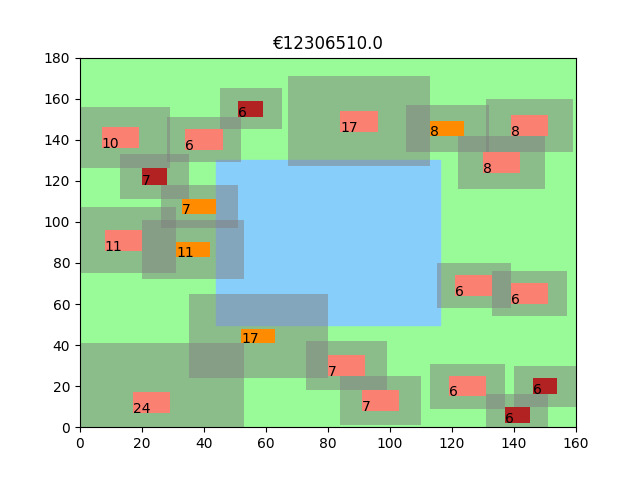
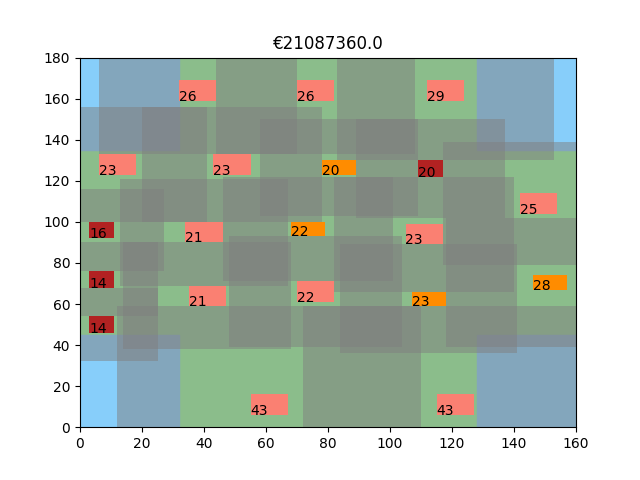
nieuwe algoritmes

diff --git a/code/algorithms/random_greedy.py b/code/algorithms/random_greedy.py
@@ -1,0 +1,101 @@
+from random import randrange
+from code.classes.Amstelhaege import Amstelhaege
+from copy import deepcopy
+
+def random_greedy(iterations, amstelhaege):
+    """
+    function that tries to place the house in random places and places it on the
+    best position for the specific house
+    """
+    highest_score = 0
+
+    for i in range(iterations):
+        # x = randrange(amstelhaege.length)
+        # y = randrange(amstelhaege.width)
+
+
+        random_placement(amstelhaege)
+
+        # checks if the move is valid
+        amstelhaege.place_house(x,y)
+        if amstelhaege.check_location(x, y, length, width, extra):
+            score = amstelhaege.calculate_worth()
+
+        # selects best place for the house
+        if score > highest_score:
+            highest_score = score
+            best_x = x
+            best_y = y
+    
+    # places house in best place
+    amstelhaege.place_house(best_x, best_y)
+    
+
+# def place_house_greedy(neighbourhood):
+#     """
+#     creates house and runs greedy on it
+#     """
+#     if name =! water:
+#         for house in neighbourhood.houses:
+#             neighbourhood.append(house)
+#             greedy_random(iterations, neighbourhood, house)
+
+
+
+def greedy():
+    """
+    check 40 possible places for each next house
+    """
+    highest_score = 0
+    #place water 
+
+
+   
+    # calculate number of houses for each house type
+    numb_eengezinswoning = amstelhaege.fraction_house_1 * total
+    numb_bungalow = amstelhaege.fraction_house_2 * total
+    numb_maison = amstelhaege.fraction_house_3 * total
+
+    # randomly places first house, which is maison
+    x = randrange(amstelhaege.length)
+    y = randrange(amstelhaege.width)
+    amstelhaege.place_house(3, x, y)
+
+    numb_maison = numb_maison + 1
+
+    # consider 20 different places for house, select best one
+    for number in range(house_number - 1):
+        house_id = number + 2
+
+        #check which house needs to be placed
+        if numb_maison > 0:
+            house_type = 3
+            numb_maison = numb_maison - 1
+        elif numb_bungalow > 0:
+            house_type = 2
+            numb_bungalow = numb_bungalow - 1
+        elif numb_eengezinswoning > 0:
+            house_type = 1
+            numb_eengezinswoning = numb_eengezinswoning - 1
+
+
+        tries = 0
+        while tries < 40:
+            placed = False
+
+            # generate coordinates
+            while placed == False:
+                x = randrange(amstelhaege.length)
+                y = randrange(amstelhaege.width)
+                
+                if amstelhaege.check_location(x, y, length, width, extra):
+                    placed = True
+                
+            # calculate the worth
+            score = amstelhaege.calculate_worth()
+            if score > highest_score:
+                highest_score = score
+                best_x = x
+                best_y = y
+            
+            tries += 1

diff --git a/code/algorithms/hillclimber2.py b/code/algorithms/hillclimber2.py
@@ -1,0 +1,56 @@
+import random
+from copy import deepcopy
+from code.classes.Amstelhaege import Amstelhaege
+
+def hillclimber2(amstelhaege):
+    """
+    This version of hillclimber starts with a random solution. Then each house 
+    is moved in a random direction (steps of 1m). If this move increases the area worth,
+    we keep moving the house in this direction, until the worth starts decreasing. 
+    """
+    directions = ["up", "down", "right", "left"]
+    for house in amstelheage.houses:
+        direction = random.choice(directions)
+        amstelheage.get_free_space()
+        worth = amstelhaege.calculate_worth()
+        new_worth = amstelheage.calculate_worth()
+        while new_worth >= worth:
+            previous_step_house = deepcopy(house)
+            previous_step_worth = new_worth
+            # previous_step_amstelhaege = deepcopy(amstelhaege)
+            new_coordinates = hillclimber2_move(house, direction)
+
+            house.x_left = new_coordinates[0]
+            house.x_right = new_coordinates[1]
+            house.y_bottom = new_coordinates[2]
+            house.y_top = new_coordinates[3]
+
+            amstelhaege.get_free_space()
+            new_worth = amstelheage.calculate_worth()
+    
+            # change the coordinates back, when the move decreases the worth
+            if new_worth < worth:
+                house.x_left = previous_step_house.x_left
+                house.x_right = previous_step_house.x_right
+                house.y_bottom = previous_step_house.y_bottom
+                house.y_top = previous_step_house.y_top
+                new_worth = previous_step_worth 
+                # amstelhaege = previouw.step_amstelhaege 
+    
+    return amstelhaege, new_worth
+
+
+def hillclimber2_move(house, direction):
+    # coordinates in new coordinates: [x_left, x_right, y_bottom, y_top]
+    if direction == "up":
+        new_coordinates = [house.x_left, house.x_right, house.y_bottom + 1, house.y_top + 1]
+    elif direction == "down":
+        new_coordinates = [house.x_left, house.x_right, house.y_bottom - 1, house.y_top - 1]
+    elif direction == "right":
+        new_coordinates = [house.x_left + 1, house.x_right + 1, house.y_bottom, house.y_top]
+    elif direction == "left": 
+        new_coordinates = [house.x_left - 1, house.x_right - 1, house.y_bottom, house.y_top]
+
+    return new_coordinates
+
+

diff --git a/code/algorithms/hillclimber1.py b/code/algorithms/hillclimber1.py
@@ -1,0 +1,64 @@
+from copy import deepcopy
+from random import randrange
+from code.algorithms.random_placement import random_placement, random_algorithm
+import time
+
+def hillclimber1(amstelhaege):
+    """
+    Executes the first version of the hillclimber algorithm.
+    First the houses are places randomly. Then a random house
+    is placed at a random location. If this random location 
+    increases the total price, it stays. If this random location
+    decreases the total price, we remove it.
+    
+    """
+
+    random_placement(amstelhaege)
+    amstelhaege.get_free_space()
+    amstelhaege.calculate_worth()
+
+    timeout = 100    
+    timeout_start = time.time()
+
+    # stop if the total price converges
+    while time.time() < timeout_start + timeout:
+        amstelhaege_copy = deepcopy(amstelhaege)
+        
+        # get a random house
+        house_index = randrange(amstelhaege_copy.total)
+        neighbourhood_index = amstelhaege.neighbourhood.index(amstelhaege.houses[house_index])
+        house = deepcopy(amstelhaege.houses[house_index])
+
+        # delete it from the copy
+        del amstelhaege_copy.houses[house_index]
+        del amstelhaege_copy.neighbourhood[neighbourhood_index]
+
+        # place the house at a random valid position
+        while True:
+
+            x = randrange(amstelhaege_copy.length)
+            y = randrange(amstelhaege_copy.width)
+
+            if amstelhaege_copy.check_location(x, y, house.length, house.width, house.free_area):
+                amstelhaege_copy.place_house(house.house_type, x, y)
+                break
+
+        amstelhaege_copy.get_free_space()
+        amstelhaege_copy.calculate_worth()
+
+        # if the new price is higher...
+        if amstelhaege_copy.price > amstelhaege.price:
+            
+            del amstelhaege.houses[house_index]
+            del amstelhaege.neighbourhood[neighbourhood_index]
+            amstelhaege.place_house(house.house_type, x, y)
+            amstelhaege.get_free_space()
+            amstelhaege.calculate_worth()
+            print(amstelhaege.price)
+
+    return amstelhaege, amstelhaege.price
+
+
+
+
+

diff --git a/code/classes/Amstelhaege.py b/code/classes/Amstelhaege.py
@@ -17,16 +17,17 @@ class Amstelhaege():
         self.price = None
 
 
-        # self.fraction_house_1 = 0.6
-        # self.fraction_house_2 = 0.25
-        # self.fraction_house_3 = 0.15
-        self.fraction_house_1 = 0.2
-        self.fraction_house_2 = 0.2
-        self.fraction_house_3 = 0.6
+        self.fraction_house_1 = 0.6
+        self.fraction_house_2 = 0.25
+        self.fraction_house_3 = 0.15
+        # self.fraction_house_1 = 0.2
+        # self.fraction_house_2 = 0.2
+        # self.fraction_house_3 = 0.6
         self.total = n_houses
 
         self.houses = []
-        self.waters = self.load_water(choice)
+        self.waters = []
+        self.load_water(choice)
         
 
     def load_water(self, choice):
@@ -51,9 +52,9 @@ class Amstelhaege():
 
                 # makes a Water object and appends it to the neighbourhood
                 water = Water('water', id, x_bottom_left, y_bottom_left, x_top_right, y_top_right, width, height)
+                self.waters.append(water)
                 self.neighbourhood.append(water)
 
-        return self.neighbourhood
 
 
     def place_house(self, house_type, x, y):
@@ -123,8 +124,8 @@ class Amstelhaege():
                 (y + width) > (house.y_bottom - extra)
                ):   
                return False
-
         return True
+
     
     def get_distance(self, house1, house2):
         """

diff --git a/main.py b/main.py
@@ -5,6 +5,8 @@ from visualise import visualise
 from random import randrange
 from output import output
 from code.algorithms.random_placement import random_placement, random_algorithm
+from code.algorithms.hillclimber1 import hillclimber1
+
 
 
 if __name__ == '__main__':
@@ -31,7 +33,9 @@ if __name__ == '__main__':
     amstelhaege = Amstelhaege(water_map, n_houses)
  
     # running the random algorithm
-    amstelhaege, high_score = random_algorithm(iterations, amstelhaege, water_map, n_houses)
+    # amstelhaege, high_score = random_algorithm(iterations, amstelhaege, water_map, n_houses)
+
+    amstelhaege, high_score = hillclimber1(amstelhaege)
 
     # visualising the results
     visualise(amstelhaege.waters, amstelhaege.houses, high_score)
